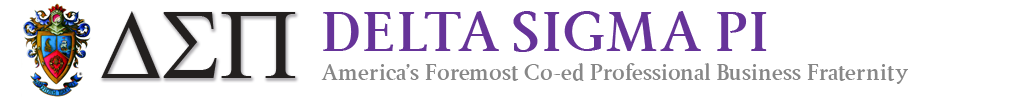
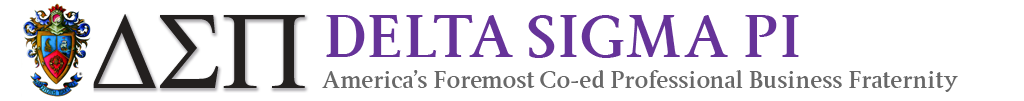
added more pages, home page needs fixing

Changed region(s): [[0.0938, 0.0891, 0.9375, 0.9208]]

diff --git a/app/assets/stylesheets/pages.css.scss b/app/assets/stylesheets/pages.css.scss
@@ -3,10 +3,10 @@
 // You can use Sass (SCSS) here: http://sass-lang.com/
 
 //ORDER OF SHIT TOP RIGHT BOTTOM LEFT
-$textColor: #23201F; //text color in text box
 $boxColor: #23201F; //banner color box color
 $purple: #663399;
 $gray: #686868;
+$questions: #23201F;
 
 body { 
 	background-size: cover;
@@ -15,9 +15,9 @@ body {
 }
 
 @mixin boxRadius {
-	border-radius: 72.5px;
-	-moz-border-radius: 72.5px;
-	-webkit-border-radius: 72.5px;
+	border-radius: 63px;
+	-moz-border-radius: 63px;
+	-webkit-border-radius: 63px;
 }
 
 @keyframes imageSlide {
@@ -40,11 +40,8 @@ body {
 
 .boxIt {
 	@include boxRadius;
-	height: 145px;
-	width: 145px;
-	margin: 13px;
-	margin-top: 28px;
-	color: $textColor;
+	height: 126px;
+	width: 126px;
 	font-family: Mission Script;
 	background-color: $boxColor;
 	transition: .3s;
@@ -52,7 +49,6 @@ body {
 	-webkit-transition: .3s;
 	a {
 		text-decoration: none;
-		color: $textColor;
 	}
 	&:hover {
 		transform: scale(1.2);
@@ -91,38 +87,38 @@ body {
 }
 
 .homeContainer {
-	font-family: Mission Script;
 	color: $gray;
 	margin: 0px auto;
 	position: relative;
 	height: 530px;
-	width: 1101px;
+	width: 948px;
 	text-align: center;
+	.navList {
+
+	}
 	ul {
 		list-style: none;
-		margin-left: 37px;
 		li {
 			float: left;
 			text-align: center;
 		}
 	}
-	.navList {
-	}
 	.textContainer {
-		height: 343px;
+		height: 225px;
 		width: 100%;
 		position: relative;
 		clear: both;
 		h1 {
-			font-size: 25px;
+			font-size: 2em;
+			font-family: MarketDeco;
 			color: $purple;
 		}
 		.sideText {
 			float: left;
-			width: 367px;
+			width: 316px;
 		}
 		.mainText {
-			width: 367px;
+			width: 316px;
 			float: left;
 			display: block;
 			word-wrap: break-word;
@@ -131,7 +127,7 @@ body {
 		}
 		.calendar {
 			float: right;
-			width: 367px;
+			width: 316px;
 			display: block;
 			word-wrap: break-word;
 			overflow: auto;
@@ -147,11 +143,6 @@ body {
 	}
 }
 
-ul {
-	list-style: none;
-	margin: 0px;
-}
-
 .alumniText, .brothersText, .chapterText, .contactText, .recruitmentText {
 	display: none;
 }
@@ -160,11 +151,10 @@ ul {
 	font-family: Mission Script;
 	width: 100%;
 	overflow: hidden;
+	margin: 0px 0px 75px 0px;
 	.alumniBox, .brothersBox, .chapterBox, .contactBox, .recruitmentBox {
-		height: 600px;
 		width: 1200px;
 		margin: 250px auto 50px auto;
-		overflow: hidden;
 	}
 	h1 {
 		font-size: 35px;
@@ -178,17 +168,13 @@ ul {
 
 #sideBar {
 	display: block;
-	width: 300px;
+	width: 325px;
 	height: 100%;
 	float: left;
 	a {
 		font-size: 25px;
 		text-decoration: none;
 	}
-	a:link { text-decoration: none; color: $textColor; }
-	a:visited { text-decoration: none; color: $textColor; }
-	a:hover { text-decoration: none; color: $textColor; }
-	a:active { text-decoration: none; color: $textColor; }
 	.sideList {
 		width: 150px;
 		margin: 0px auto 0px auto;
@@ -200,19 +186,50 @@ ul {
 	float: left;
 	width: 500px;
 	height: 100%;
+	color: $gray;
 	a {
 		text-decoration: none;
 	}
 	.textBox {
 		color: $gray;
 	}
+	label {
+		color: $gray;
+	}
+	#toggle-view {
+	    list-style: none;   
+	    font-size: 14px;
+	    margin: 0;
+	    padding: 0;
+	    width: 500px;
+	    li {
+	        margin: 10px;
+	        border-bottom: 1px solid #ccc;
+	        position: relative;
+	        cursor: pointer;
+		}
+		h3 {
+        	font-size: 18px;
+        	color: $gray;
+    	}
+ 		span {
+	        position: absolute;
+	        right: 5px; top:0;
+	        color: #ccc;
+	        font-size: 16px;
+	    }
+     	.panel {
+        	margin: 5px 0;
+        	display: none;
+    	}
+    }
 }
 
 .calendarText {
 	text-align: center;
 	display: block;
 	float: right;
-	width: 350px;
+	width: 325px;
 	height: 100%;
 		a {
 		text-decoration: none;
@@ -226,8 +243,9 @@ ul {
 	color: red;
 	text-align: center;
 	position: relative;
-	top: 340px;
+	top: 250px;
 }
+
 input, textarea, select, .uneditable-input {
 	width: 100%;
 	height: auto;

diff --git a/app/assets/javascripts/navigation.js b/app/assets/javascripts/navigation.js
@@ -23,7 +23,6 @@ $(document).ready(function() {
 			$(pageIds[currentPage]).animate({ right: "-=5000px"}, 500 );
 		}
 	document.cookie = 0;
-
 	$('.imageGallery img:first').fadeIn(1000, function() {
 		$('.imageGallery').cycle({
 			fx: 'fade',
@@ -62,6 +61,8 @@ $(document).ready(function() {
 					$('.notice').fadeOut(200);
 					$(pageIds[currentPage]).animate({
 						left: "-=5000px"}, 500, redirectPage );
+					$(pageIds[currentPage]).animate({
+						left: "+=5000px"}, 100);
 				}
 				else
 				{
@@ -71,10 +72,26 @@ $(document).ready(function() {
 					$('.notice').fadeOut(200);
 					$(pageIds[currentPage]).animate({
 						left: "+=5000px"}, 500, redirectPage );
+					$(pageIds[currentPage]).animate({
+						left: "-=5000px"}, 100);
 				}
 			}
 		}
 	});
+
+    $('#toggle-view li').click(function () {
+ 
+        var text = $(this).children('div.panel');
+ 
+        if (text.is(':hidden')) {
+            text.slideDown('200');
+            $(this).children('span').html('-');    
+        } else {
+            text.slideUp('200');
+            $(this).children('span').html('+');    
+        }
+         
+    });
 
 	function redirectPage() {
 		window.location = newLink;
